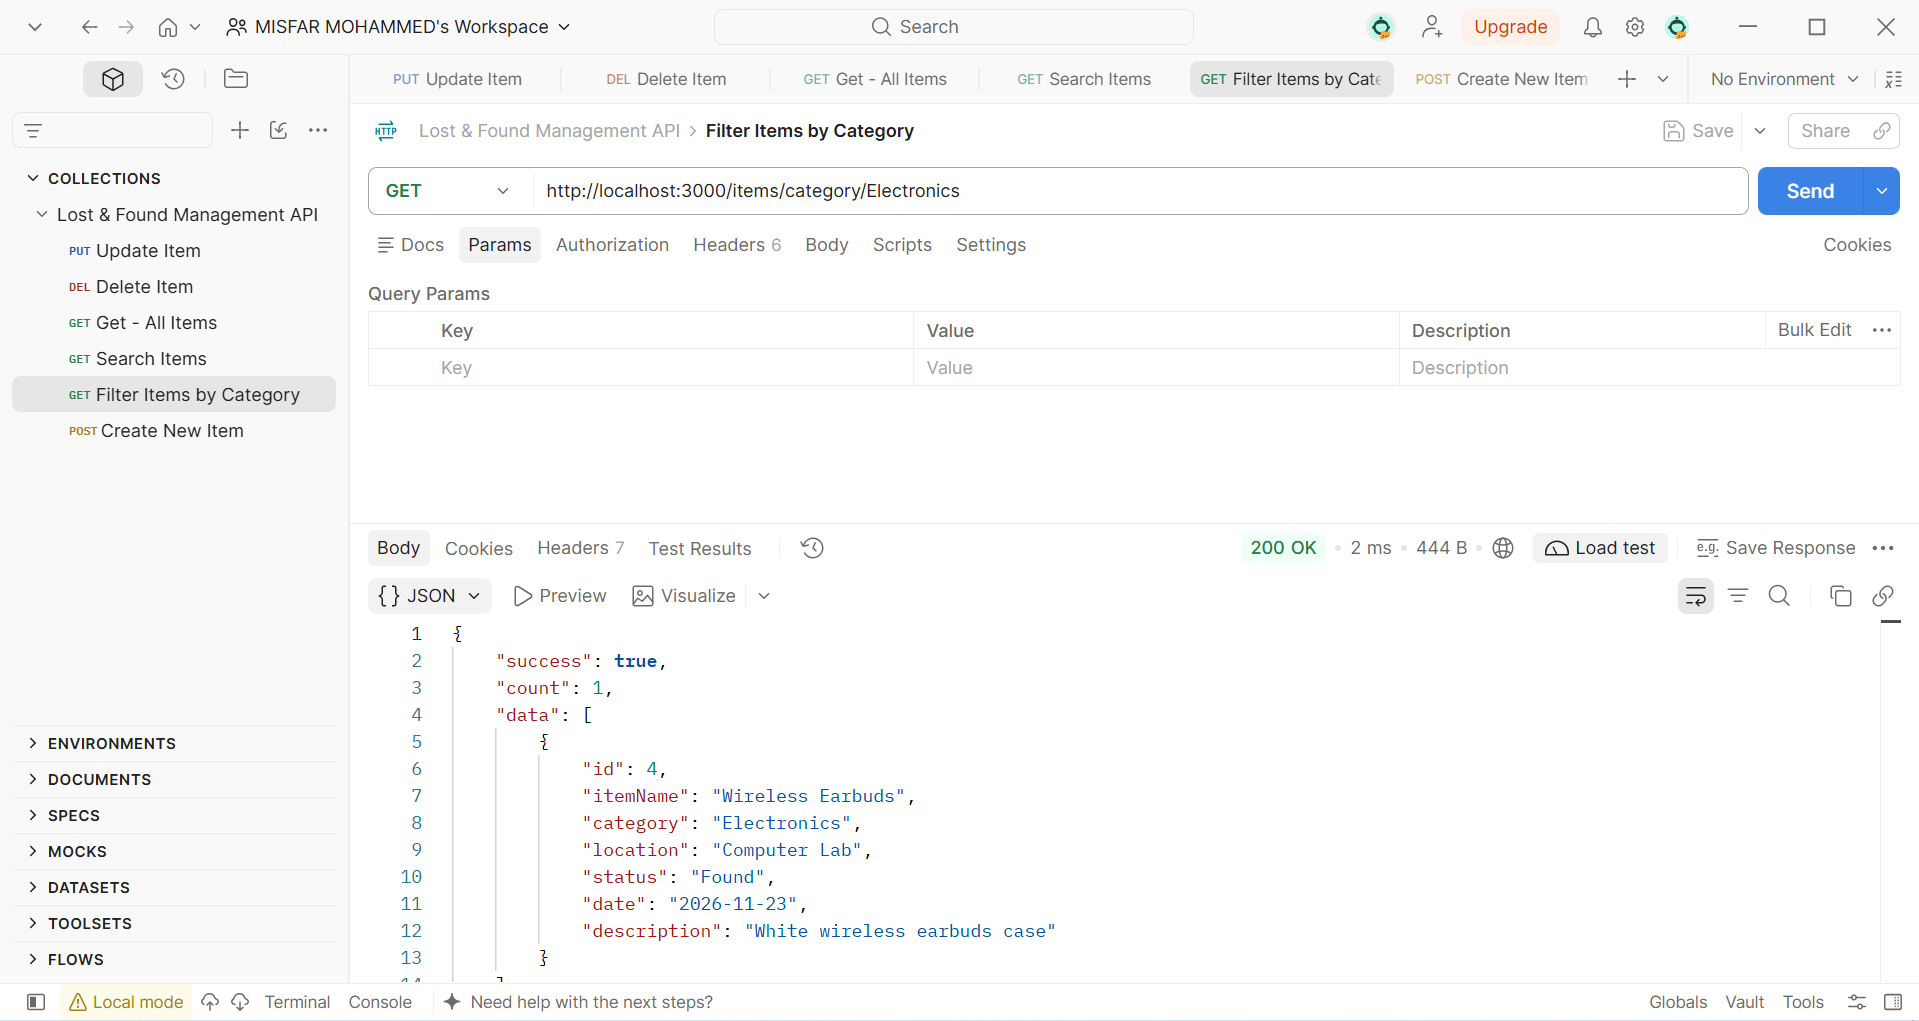
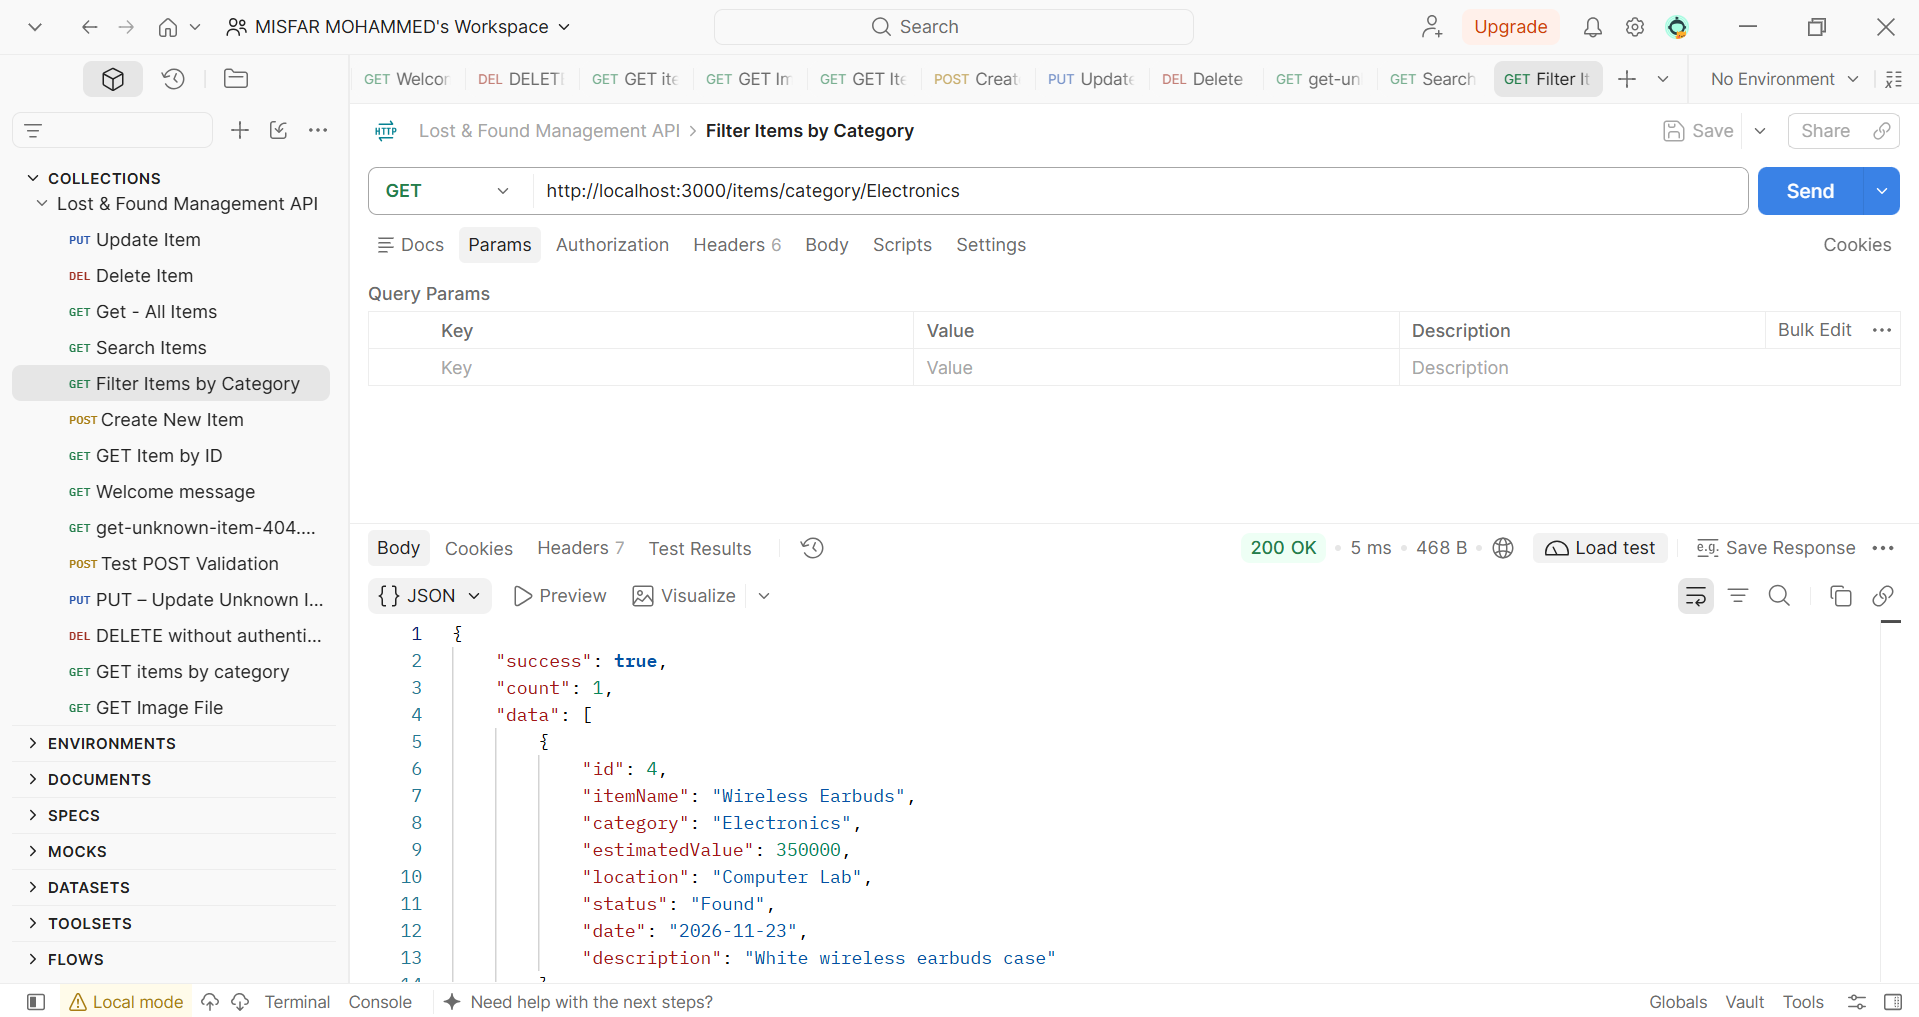
Update API validation and Postman documentation

diff --git a/routes/items.js b/routes/items.js
@@ -9,6 +9,7 @@ let items = [
     id: 1,
     itemName: "Black Wallet",
     category: "Personal",
+    estimatedValue: 150000,
     location: "University Library",
     status: "Lost",
     date: "2026-11-20",
@@ -18,6 +19,7 @@ let items = [
     id: 2,
     itemName: "Blue Water Bottle",
     category: "Accessories",
+    estimatedValue: 50000,
     location: "Campus Cafeteria",
     status: "Found",
     date: "2026-11-21",
@@ -27,6 +29,7 @@ let items = [
     id: 3,
     itemName: "Student ID Card",
     category: "Documents",
+    estimatedValue: 0,
     location: "Main Gate",
     status: "Found",
     date: "2026-11-22",
@@ -36,6 +39,7 @@ let items = [
     id: 4,
     itemName: "Wireless Earbuds",
     category: "Electronics",
+    estimatedValue: 350000,
     location: "Computer Lab",
     status: "Lost",
     date: "2026-11-23",
@@ -45,6 +49,7 @@ let items = [
     id: 5,
     itemName: "Black Umbrella",
     category: "Accessories",
+    estimatedValue: 75000,
     location: "Parking Area",
     status: "Found",
     date: "2026-11-24",
@@ -98,12 +103,12 @@ router.get("/", (req, res) => {
 
 // Create a new item
 router.post("/", (req, res) => {
-  const { itemName, category, location, status, date, description } = req.body;
+  const { itemName, category, estimatedValue, location, status, date, description } = req.body;
 
-  if (!itemName || !category || !location || !status || !date || !description) {
+  if (!itemName || !category || typeof estimatedValue !== "number" || estimatedValue < 0 || !location || !status || !date || !description) {
     return res.status(400).json({
       success: false,
-      message: "Please provide itemName, category, location, status, date and description"
+      message: "Please provide itemName, category, a valid estimatedValue (number >= 0), location, status, date and description"
     });
   }
 
@@ -118,6 +123,7 @@ router.post("/", (req, res) => {
     id: items.length ? Math.max(...items.map((item) => item.id)) + 1 : 1,
     itemName,
     category,
+    estimatedValue,
     location,
     status,
     date,
@@ -150,12 +156,12 @@ router.route("/:id")
       throw error;
     }
 
-    const { itemName, category, location, status, date, description } = req.body;
+    const { itemName, category, estimatedValue, location, status, date, description } = req.body;
 
-    if (!itemName || !category || !location || !status || !date || !description) {
+    if (!itemName || !category || typeof estimatedValue !== "number" || estimatedValue < 0 || !location || !status || !date || !description) {
       return res.status(400).json({
         success: false,
-        message: "Please provide all item fields to update"
+        message: "Please provide all item fields, including a valid estimatedValue (number >= 0), to update"
       });
     }
 
@@ -168,6 +174,7 @@ router.route("/:id")
 
     item.itemName = itemName;
     item.category = category;
+    item.estimatedValue = estimatedValue;
     item.location = location;
     item.status = status;
     item.date = date;

diff --git a/README.md b/README.md
@@ -90,17 +90,21 @@ A DELETE request without the correct header receives **401 Unauthorized**.
 
 ## Postman Tests
 
-The following test cases were completed:
+The following API endpoints and validation cases were tested successfully using Postman.
 
-| No. | Test | Expected status |
-|---|---|---|
-| 1 | GET / | 200 OK |
-| 2 | GET /items/9999 | 404 Not Found |
-| 3 | POST /items with missing fields | 400 Bad Request |
-| 4 | PUT /items/9999 | 404 Not Found |
-| 5 | DELETE /items/1 without authentication header | 401 Unauthorized |
-| 6 | GET /items/category | 200 OK |
-| 7 | GET /files/images/profile/photo.png | 200 OK |
+| No. | Test | Expected Status |
+| --- | --- | --- |
+| 1 | GET / – Welcome message | 200 OK |
+| 2 | GET /items – Get all items | 200 OK |
+| 3 | GET /items/:id – Get item by ID | 200 OK |
+| 4 | GET /items/99999 – Unknown item | 404 Not Found |
+| 5 | POST /items – Create a new item | 201 Created |
+| 6 | POST /items – Missing required fields | 400 Bad Request |
+| 7 | PUT /items/:id – Update an item | 200 OK |
+| 8 | DELETE /items/:id – Delete an item with authentication | 200 OK |
+| 9 | DELETE /items/:id – Delete without authentication | 401 Unauthorized |
+| 10 | GET /items/search?q=wallet – Search items | 200 OK |
+| 11 | GET /items/category/Electronics – Filter by category | 200 OK |
 
 Postman screenshots are saved in the `screenshots` folder.
 
